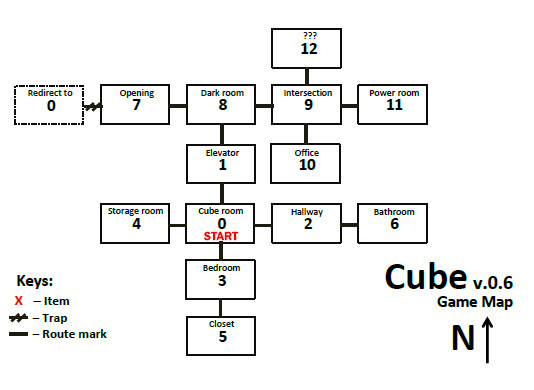
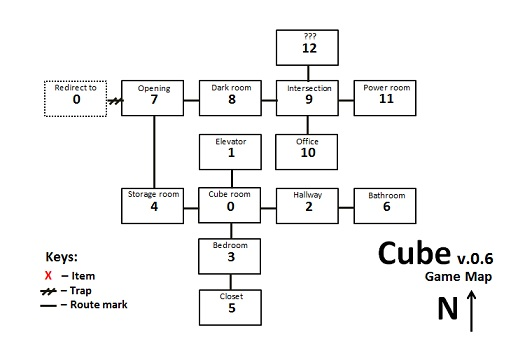
Project 4 - Final v4
++ Correct game map to match game locations

Changed region(s): [[0.0, 0.057, 0.9575, 0.9402], [0.0, 0.6838, 0.2471, 0.8832]]

diff --git a/project4/project4.html b/project4/project4.html
@@ -37,7 +37,7 @@
     <br/><br/>
     
     <p><strong>Game Map</strong></p>
-    <img src="map.jpg" width="534" height="390" alt="Game Map"/>
+    <img src="map.jpg" width="518" height="381" alt="Game Map"/>
     
     <p>
       Problem? Click <a href="mailto:weon.yuan1@marist.edu" target="_blank">here</a>.
